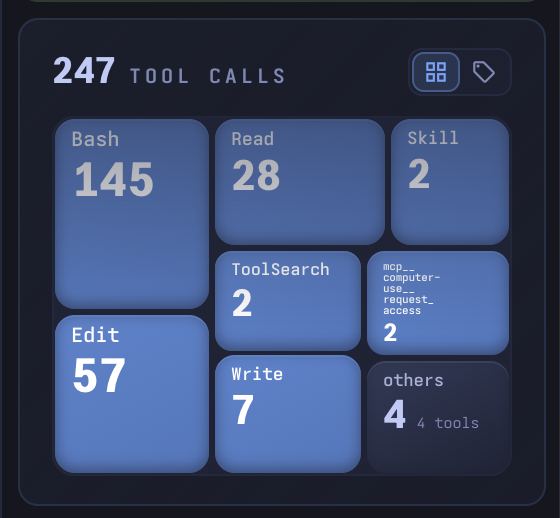
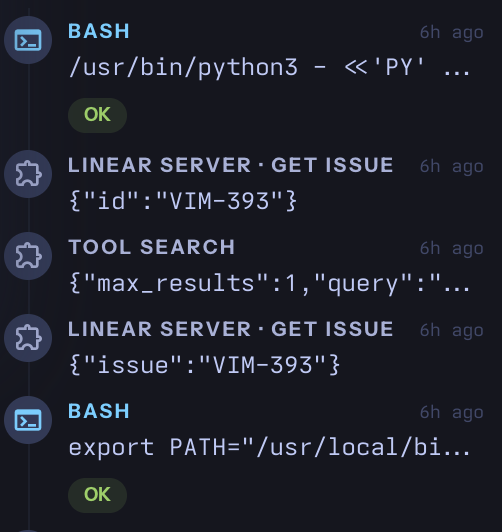
docs: use the Traces feed as the sidebar trace showcase

diff --git a/docs/media/CLAUDE.md b/docs/media/CLAUDE.md
@@ -10,9 +10,9 @@ Image and animation assets referenced by `README.md` and `README.zh-CN.md`. Capt
 | `ghostty-resize.gif`   | "Native Ghostty Terminals" section | Drag a pane divider (or window edge) while a terminal renders live — show the smooth reflow       |
 | `ghostty-tui.png`      | "Native Ghostty Terminals" section | `nvim` full-screen in one pane, an agent session beside it                                        |
 | `multi-agent-grid.png` | "Many Agents, One Workspace"       | Quad layout — `claude`, `codex`, `kimi`, `opencode` one per pane, status panel expanded           |
-| `agent-context.png`    | "Reading the status sidebar"       | PLACEHOLDER — crop of the context-reservoir gauge from the expanded agent sidebar                 |
-| `agent-cache.png`      | "Reading the status sidebar"       | PLACEHOLDER — crop of the cache-rate ring from the expanded agent sidebar                         |
-| `agent-traces.png`     | "Reading the status sidebar"       | PLACEHOLDER — crop of the tool-call count + traces list from the expanded agent sidebar           |
+| `agent-context.png`    | "Reading the status sidebar"       | Context-reservoir gauge (fill + % + tokens left) from the expanded agent sidebar                  |
+| `agent-cache.png`      | "Reading the status sidebar"       | Cache-rate ring ("CACHED THIS TURN") with cached / wrote / fresh counts                           |
+| `agent-traces.png`     | "Reading the status sidebar"       | The Traces feed — a list of recent tool calls (tool · args · result) from the agent sidebar       |
 | `usage-bars.png`       | "Many Agents" → Plan usage         | Agent status card with model, turn count, and the 5-hour + weekly plan-usage bars (Claude)        |
 | `kimi-usage.png`       | "Many Agents" → Plan usage         | Kimi Code plan-usage card (`kimi-code/k3`) with the "Turn off plan-usage tracking" control        |
 | `hunk-review.png`      | "Review Changes Hunk By Hunk"      | Diff dock (`⌘G`): a resolved review thread on a changed line (comment → agent reply → resolved)   |

diff --git a/README.zh-CN.md b/README.zh-CN.md
@@ -64,12 +64,12 @@ Vimeflow 不是在浏览器里模拟终端。macOS arm64 打包版本把**真正
   <tr>
     <td width="33%" valign="top"><img src="docs/media/agent-context.png" alt="代理状态侧栏中的上下文蓄水池仪表" width="100%" /></td>
     <td width="33%" valign="top"><img src="docs/media/agent-cache.png" alt="代理状态侧栏中的缓存命中率环" width="100%" /></td>
-    <td width="33%" valign="top"><img src="docs/media/agent-traces.png" alt="代理状态侧栏中的工具调用轨迹" width="100%" /></td>
+    <td width="33%" valign="top"><img src="docs/media/agent-traces.png" alt="代理状态侧栏中的轨迹（Traces）列表 —— 每条工具调用的参数与结果状态" width="100%" /></td>
   </tr>
   <tr>
     <td valign="top"><b>上下文蓄水池</b> —— 模型的上下文窗口还剩多少，随着对话变长像水箱一样往下排；水位的颜色还会随用量变化，让你在撞到上限之前就先有感觉。</td>
     <td valign="top"><b>缓存命中率</b> —— 这一轮有多少来自缓存，画成一个环；环越满，这一轮就越便宜、越快。</td>
-    <td valign="top"><b>工具调用与轨迹</b> —— 实时计数，外加一份可滚动、层层堆叠的历史，记录代理触发过的每一个工具。</td>
+    <td valign="top"><b>轨迹（Traces）</b> —— 一份可滚动的历史，记录代理触发过的每一个工具：工具名、参数与结果，最新的在最上面。</td>
   </tr>
 </table>
 

diff --git a/README.md b/README.md
@@ -64,12 +64,12 @@ The panel isn't just a readout — it's three live gauges you can trust at a gla
   <tr>
     <td width="33%" valign="top"><img src="docs/media/agent-context.png" alt="Context reservoir gauge in the agent status sidebar" width="100%" /></td>
     <td width="33%" valign="top"><img src="docs/media/agent-cache.png" alt="Cache-rate ring in the agent status sidebar" width="100%" /></td>
-    <td width="33%" valign="top"><img src="docs/media/agent-traces.png" alt="Tool-call traces in the agent status sidebar" width="100%" /></td>
+    <td width="33%" valign="top"><img src="docs/media/agent-traces.png" alt="The Traces feed in the agent status sidebar — recent tool calls with arguments and result status" width="100%" /></td>
   </tr>
   <tr>
     <td valign="top"><b>Context reservoir</b> — how much of the model's context window is left, draining like a tank as the conversation grows. The fill even shifts color as it climbs, so you feel the ceiling coming before you hit it.</td>
     <td valign="top"><b>Cache rate</b> — the share of this turn served from cache, drawn as a ring; the fuller it reads, the cheaper and faster the turn.</td>
-    <td valign="top"><b>Tool calls &amp; traces</b> — a live count plus a stacked, scrollable history of every tool the agent has fired.</td>
+    <td valign="top"><b>Traces</b> — a scrollable history of every tool the agent has fired: tool, arguments, and result, newest first.</td>
   </tr>
 </table>
 
